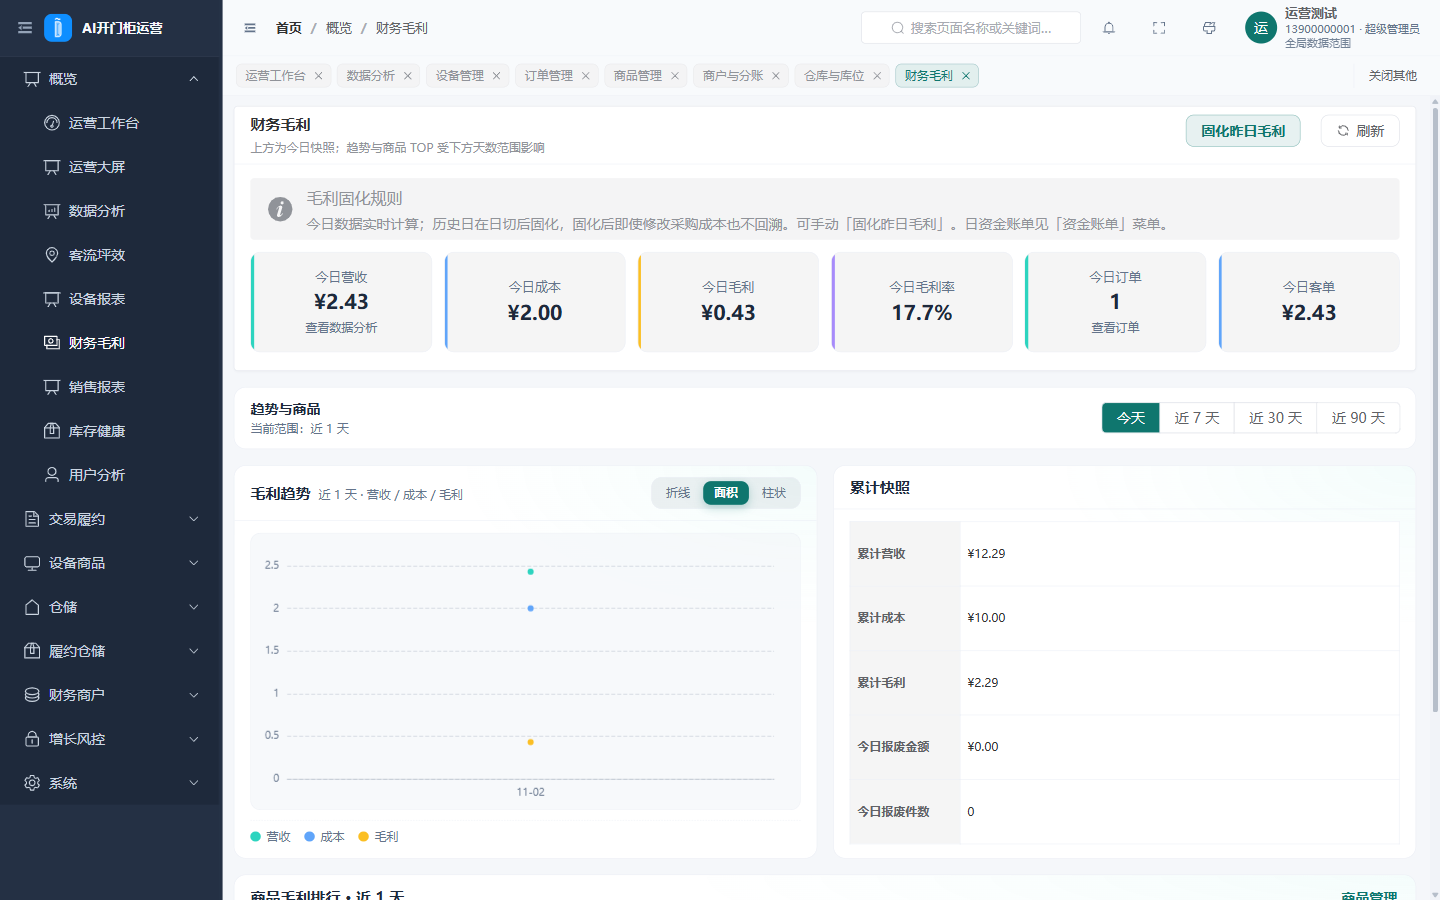
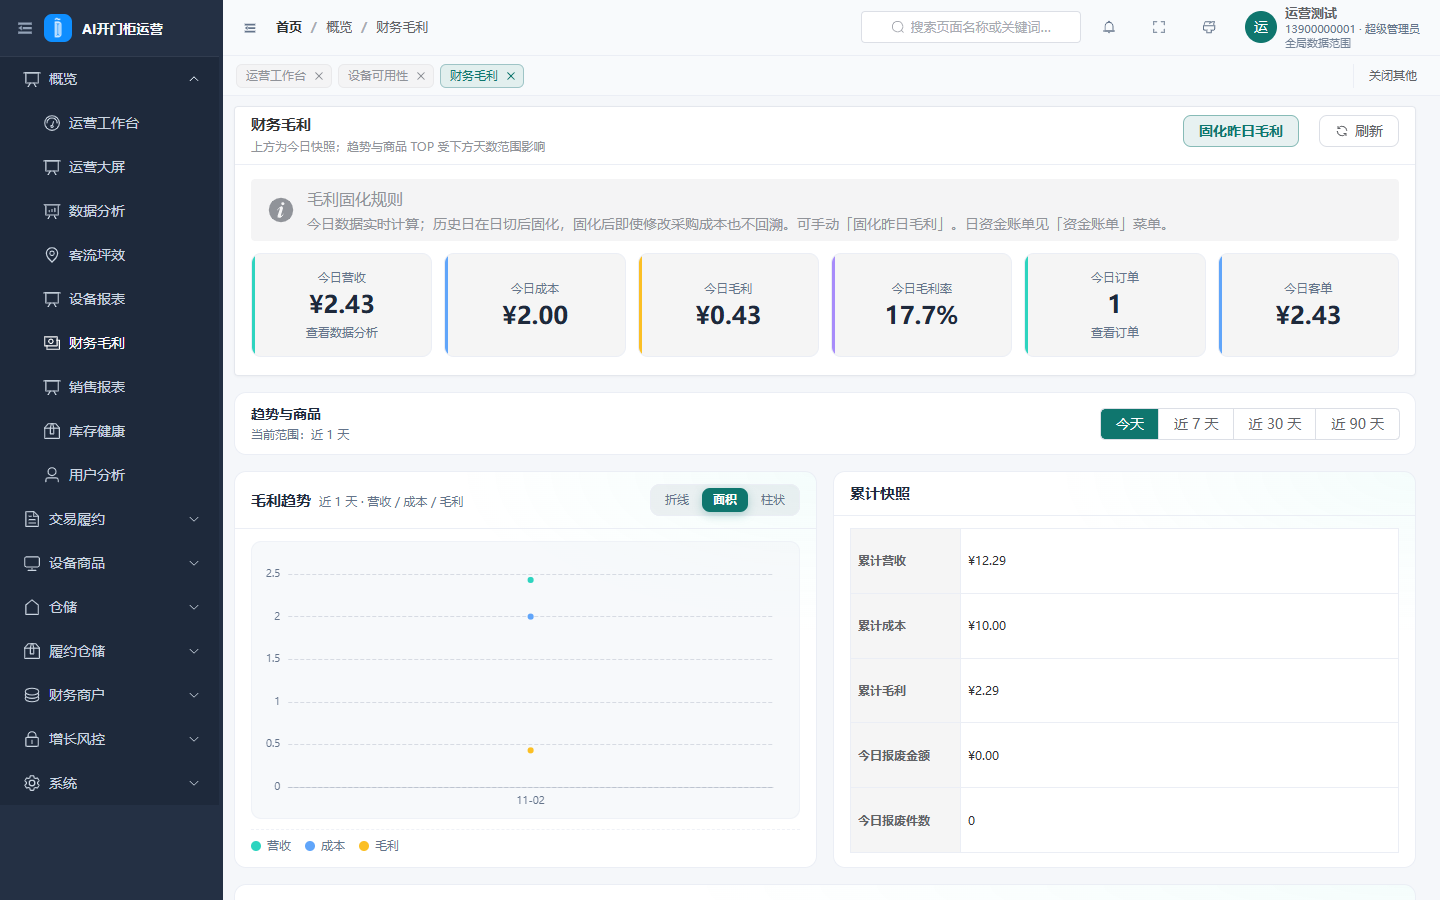
style(admin): KPI 数值/标签字号口径统一（24px·700 + 12px 辅助色）+ 状态页签间距对齐
- 10 个页面的 KPI 数值从 20/22/26px、600/700 混用统一为 display-lg 24px/700，
  标签统一 hint 12px + --layout-muted；仅警示态保留 danger 色
- 订单页 status-tabs 下间距 8→10，与其余 6 个列表页一致
- 证据：admin-style 改后截图（不含其它会话的空表处置改动）

diff --git a/clients/admin-vue/src/views/reports/StockHealthView.vue b/clients/admin-vue/src/views/reports/StockHealthView.vue
@@ -641,8 +641,8 @@ watch(
   font-size: var(--admin-font-size-title);
 }
 .hint {
-  font-size: var(--admin-font-size-sm);
-  color: var(--el-text-color-secondary);
+  font-size: var(--admin-font-size-hint);
+  color: var(--layout-muted);
 }
 .kpi-row {
   display: grid;
@@ -691,8 +691,8 @@ watch(
 }
 .kpi-value {
   margin-top: 4px;
-  font-size: var(--admin-font-size-display);
-  font-weight: 600;
+  font-size: var(--admin-font-size-display-lg);
+  font-weight: 700;
   font-variant-numeric: tabular-nums;
 }
 .kpi-hint {

diff --git a/clients/admin-vue/src/views/growth/UserAnalysisView.vue b/clients/admin-vue/src/views/growth/UserAnalysisView.vue
@@ -378,15 +378,15 @@ function lastTime(value?: string | number | null) {
 }
 .kpi-label {
   display: block;
-  font-size: var(--admin-font-size-table);
-  color: #6b7280;
+  font-size: var(--admin-font-size-hint);
+  color: var(--layout-muted);
 }
 .kpi-value {
   display: block;
   margin-top: 6px;
-  font-size: var(--admin-font-size-display-xl);
+  font-size: var(--admin-font-size-display-lg);
   font-weight: 700;
-  color: #065f46;
+  color: var(--layout-text);
 }
 .kpi-value.warn {
   color: #b45309;

diff --git a/clients/admin-vue/src/views/devices/DeviceKpiView.vue b/clients/admin-vue/src/views/devices/DeviceKpiView.vue
@@ -137,13 +137,13 @@ onMounted(load);
   text-align: center;
 }
 .kpi-label {
-  font-size: var(--admin-font-size-table);
-  color: var(--el-text-color-secondary);
+  font-size: var(--admin-font-size-hint);
+  color: var(--layout-muted);
   margin-bottom: 8px;
 }
 .kpi-value {
-  font-size: var(--admin-font-size-display-md);
-  font-weight: 600;
-  color: var(--el-text-color-primary);
+  font-size: var(--admin-font-size-display-lg);
+  font-weight: 700;
+  color: var(--layout-text);
 }
 </style>

diff --git a/clients/admin-vue/src/views/sla/SlaView.vue b/clients/admin-vue/src/views/sla/SlaView.vue
@@ -180,13 +180,13 @@ onMounted(load);
   font: inherit;
 }
 .stat-label {
-  color: var(--el-text-color-secondary);
-  font-size: var(--admin-font-size-table);
+  color: var(--layout-muted);
+  font-size: var(--admin-font-size-hint);
   margin-bottom: 6px;
 }
 .stat-value {
-  font-size: var(--admin-font-size-display);
-  font-weight: 600;
+  font-size: var(--admin-font-size-display-lg);
+  font-weight: 700;
 }
 .stat-hint {
   margin-top: 4px;

diff --git a/clients/admin-vue/src/views/analytics/FootfallView.vue b/clients/admin-vue/src/views/analytics/FootfallView.vue
@@ -329,12 +329,12 @@ function barHeight(orders: number) {
 .kpi-n {
   font-size: var(--admin-font-size-display-lg);
   font-weight: 700;
-  color: var(--el-color-primary);
+  color: var(--layout-text);
 }
 .kpi-l {
   margin-top: 4px;
-  font-size: var(--admin-font-size-sm);
-  color: var(--el-text-color-secondary);
+  font-size: var(--admin-font-size-hint);
+  color: var(--layout-muted);
 }
 .section-title {
   margin: 16px 0 10px;

diff --git a/clients/admin-vue/src/views/dashboard/DashboardView.vue b/clients/admin-vue/src/views/dashboard/DashboardView.vue
@@ -904,11 +904,11 @@ onMounted(() => load({ silent: true }));
   color: var(--danger);
 }
 .stat-label {
-  font-size: var(--admin-font-size-table);
+  font-size: var(--admin-font-size-hint);
   color: var(--layout-muted);
 }
 .stat-value {
-  font-size: var(--admin-font-size-display-xl);
+  font-size: var(--admin-font-size-display-lg);
   font-weight: 700;
   margin-top: 6px;
   line-height: 1.2;

diff --git a/clients/admin-vue/src/views/reports/DeviceReportView.vue b/clients/admin-vue/src/views/reports/DeviceReportView.vue
@@ -746,13 +746,13 @@ onActivated(() => {
 }
 
 .kpi-label {
-  font-size: var(--admin-font-size-table);
+  font-size: var(--admin-font-size-hint);
   color: var(--layout-muted);
   line-height: 1.3;
 }
 
 .kpi-value {
-  font-size: clamp(18px, 2.4vw, 22px);
+  font-size: var(--admin-font-size-display-lg);
   font-weight: 700;
   margin-top: 0;
   line-height: 1.2;

diff --git a/clients/admin-vue/src/views/finance/FinanceView.vue b/clients/admin-vue/src/views/finance/FinanceView.vue
@@ -618,11 +618,11 @@ watch(
   outline: none;
 }
 .kpi-label {
-  font-size: var(--admin-font-size-table);
+  font-size: var(--admin-font-size-hint);
   color: var(--layout-muted);
 }
 .kpi-value {
-  font-size: var(--admin-font-size-display);
+  font-size: var(--admin-font-size-display-lg);
   font-weight: 700;
   margin-top: 4px;
   color: var(--layout-text);

diff --git a/clients/admin-vue/src/views/reports/SalesReportsView.vue b/clients/admin-vue/src/views/reports/SalesReportsView.vue
@@ -629,7 +629,7 @@ onMounted(async () => {
 }
 .kpi-value {
   margin-top: 4px;
-  font-size: var(--admin-font-size-display);
+  font-size: var(--admin-font-size-display-lg);
   font-weight: 700;
   font-variant-numeric: tabular-nums;
   color: var(--layout-text, #1e293b);

diff --git a/clients/admin-vue/src/views/analytics/AnalyticsView.vue b/clients/admin-vue/src/views/analytics/AnalyticsView.vue
@@ -707,7 +707,7 @@ onMounted(load);
   background: #fbbf24;
 }
 .stat-label {
-  font-size: var(--admin-font-size-table);
+  font-size: var(--admin-font-size-hint);
   color: var(--layout-muted);
 }
 .stat-value {

diff --git a/clients/admin-vue/src/views/orders/OrderListView.vue b/clients/admin-vue/src/views/orders/OrderListView.vue
@@ -1764,7 +1764,7 @@ onActivated(() => {
   ) !important;
 }
 .status-tabs {
-  margin: 0 0 8px;
+  margin: 0 0 10px;
 }
 .export-caret {
   opacity: 0.7;
